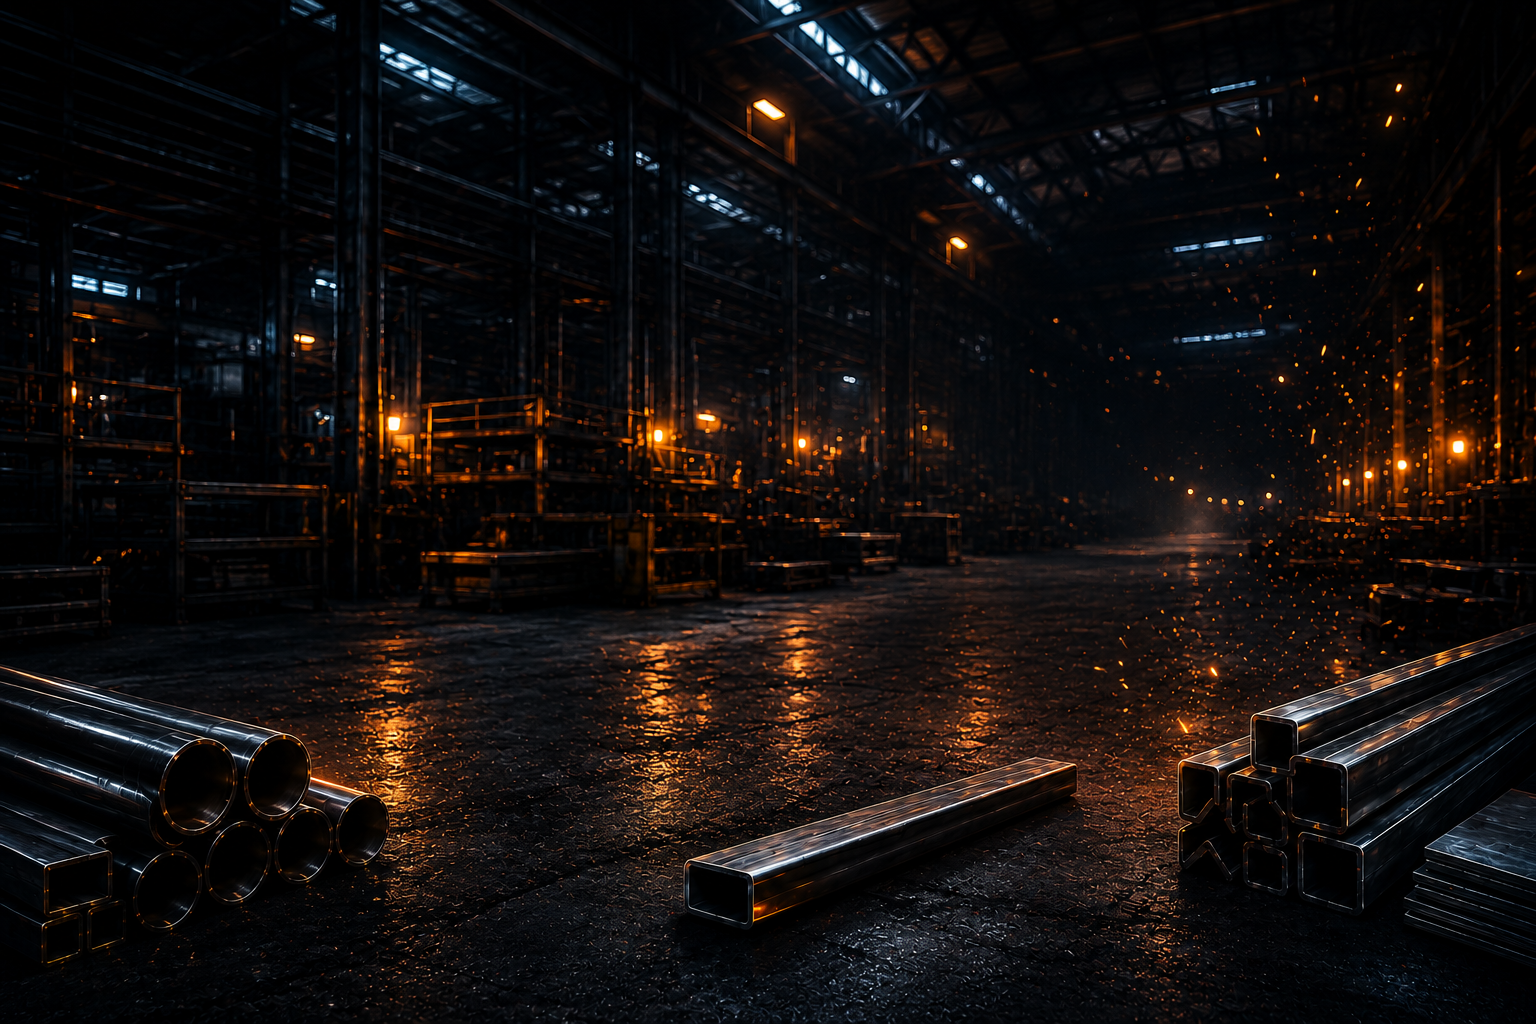
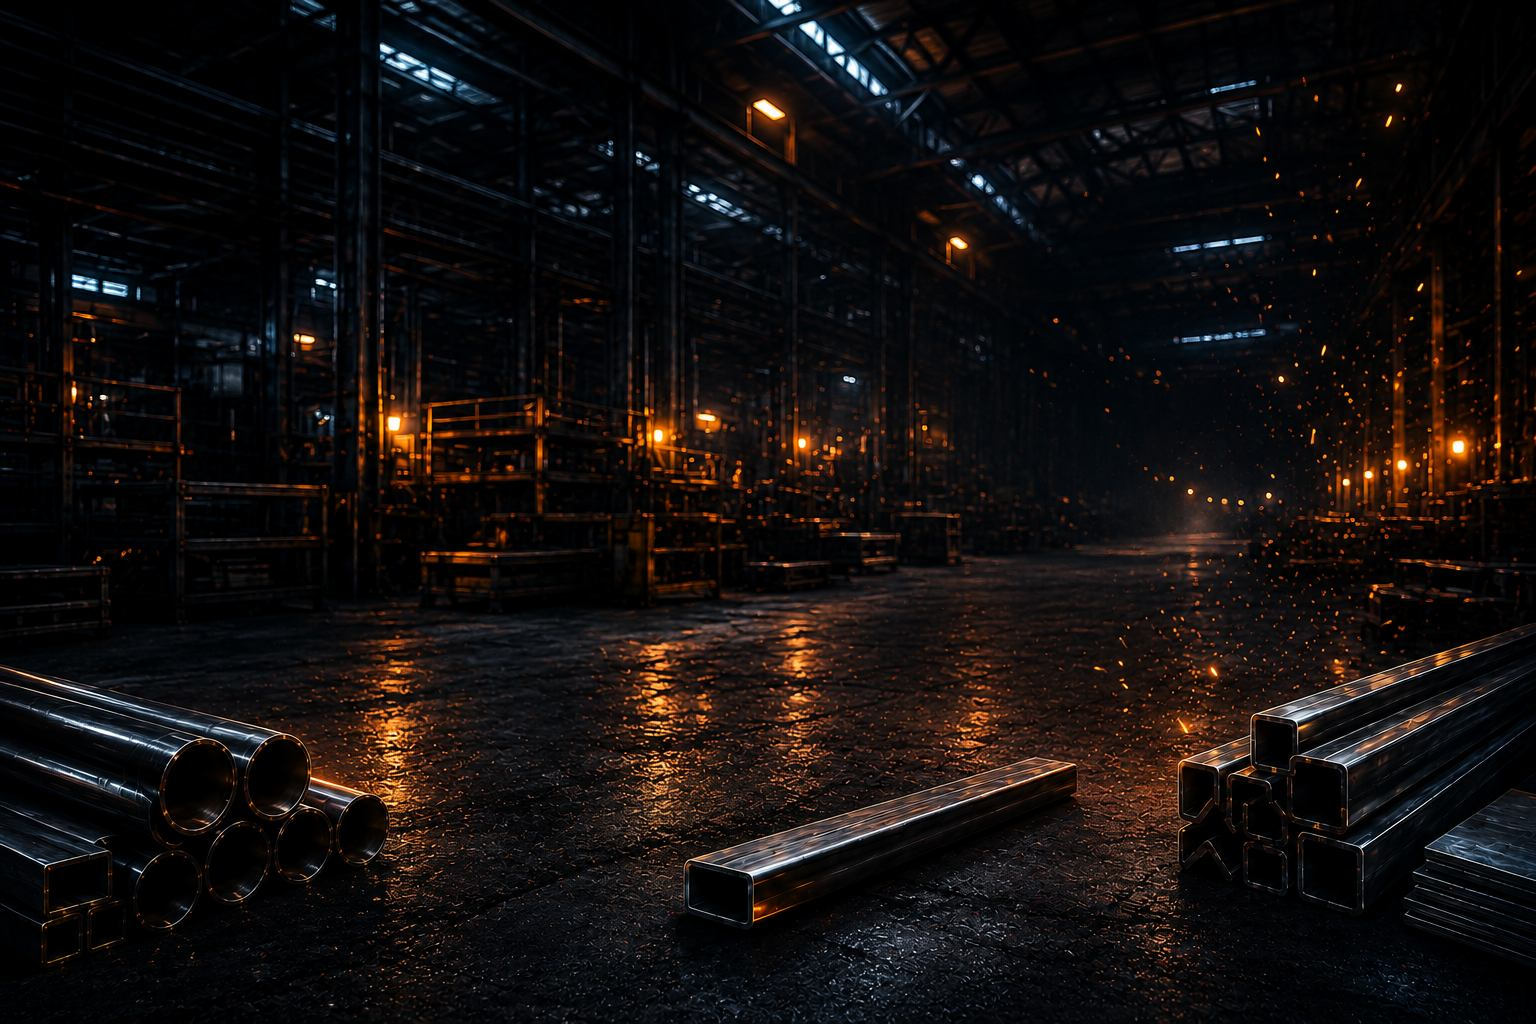
Comprime y optimiza las imagenes pesadas del sitio (49MB -> 14MB)
Redimensiona (max 1600px) y recomprime en JPEG calidad ~80 las 20
fotos que pesaban 2-3MB cada una. Sin cambio visible de calidad en
las miniaturas/coberturas donde se usan.

5 PNG sin transparencia (tornillos, portones, planos, barandales,
tiner) se convirtieron a JPEG -- el encoder PNG de Windows los hacia
mas pesados en vez de mas livianos al recomprimir. Se actualizan las
referencias .png -> .jpg en las ~19 paginas que las usaban.

bobby.png se mantiene como PNG (si usa transparencia) y se
recomprimio manteniendo el canal alfa intacto.

diff --git a/blog/blog.html b/blog/blog.html
@@ -129,7 +129,7 @@
     </a>
 
     <a class="post-card" href="como-cotizar-trabajo-herreria-sin-perder-plata.html">
-        <div class="post-card-image" style="background-image:url('../images/planos.png');" role="img" aria-label="Planos y cálculo de proyecto"></div>
+        <div class="post-card-image" style="background-image:url('../images/planos.jpg');" role="img" aria-label="Planos y cálculo de proyecto"></div>
         <div class="post-card-body">
             <span class="post-tag">Negocio</span>
             <h2>Cómo cotizar un trabajo de herrería sin perder plata</h2>
@@ -289,7 +289,7 @@
     </a>
 
     <a class="post-card" href="tornillos-pernos-estructuras-metalicas.html">
-        <div class="post-card-image" style="background-image:url('../images/tornillos.png');" role="img" aria-label="Tornillos y pernos para estructuras metálicas"></div>
+        <div class="post-card-image" style="background-image:url('../images/tornillos.jpg');" role="img" aria-label="Tornillos y pernos para estructuras metálicas"></div>
         <div class="post-card-body">
             <span class="post-tag">Consejos de construcción</span>
             <h2>Tornillos y pernos para estructuras metálicas</h2>
@@ -299,7 +299,7 @@
     </a>
 
     <a class="post-card" href="barandales-pasamanos-medidas.html">
-        <div class="post-card-image" style="background-image:url('../images/barandales.png');" role="img" aria-label="Barandales metálicos"></div>
+        <div class="post-card-image" style="background-image:url('../images/barandales.jpg');" role="img" aria-label="Barandales metálicos"></div>
         <div class="post-card-body">
             <span class="post-tag">Referencia técnica</span>
             <h2>Barandales y pasamanos de metal</h2>
@@ -329,7 +329,7 @@
     </a>
 
     <a class="post-card" href="como-calcular-varilla-losa.html">
-        <div class="post-card-image" style="background-image:url('../images/planos.png');" role="img" aria-label="Planos de construcción"></div>
+        <div class="post-card-image" style="background-image:url('../images/planos.jpg');" role="img" aria-label="Planos de construcción"></div>
         <div class="post-card-body">
             <span class="post-tag">Consejos de construcción</span>
             <h2>Cómo calcular cuánta varilla necesitás para una losa</h2>
@@ -409,7 +409,7 @@
     </a>
 
     <a class="post-card" href="factores-precio-porton-metal.html">
-        <div class="post-card-image" style="background-image:url('../images/portones.png');" role="img" aria-label="Portón metálico fabricado en Xela"></div>
+        <div class="post-card-image" style="background-image:url('../images/portones.jpg');" role="img" aria-label="Portón metálico fabricado en Xela"></div>
         <div class="post-card-body">
             <span class="post-tag">Proyectos</span>
             <h2>Qué factores cambian el precio de un portón de metal</h2>

diff --git a/productos.html b/productos.html
@@ -93,7 +93,7 @@
 
         <article class="product-card">
           <a href="https://wa.me/50248649231?text=Hola%2C%20quiero%20saber%20el%20precio%20del%20hierro%20plano" target="_blank" rel="noopener noreferrer" aria-label="Consultar precio de hierro plano por WhatsApp">
-            <img src="images/planos.png" alt="Hierro Plano">
+            <img src="images/planos.jpg" alt="Hierro Plano">
           </a>
           <div>
             <h2>HIERRO PLANO</h2>
@@ -113,7 +113,7 @@
 
         <article class="product-card">
           <a href="https://wa.me/50248649231?text=Hola%2C%20quiero%20saber%20el%20precio%20de%20la%20torniller%C3%ADa" target="_blank" rel="noopener noreferrer" aria-label="Consultar precio de tornillería por WhatsApp">
-            <img src="images/tornillos.png" alt="Tornillería">
+            <img src="images/tornillos.jpg" alt="Tornillería">
           </a>
           <div>
             <h2>TORNILLERÍA</h2>
@@ -193,7 +193,7 @@
 
         <article class="product-card">
           <a href="https://wa.me/50248649231?text=Hola%2C%20quiero%20saber%20el%20precio%20de%20los%20portones" target="_blank" rel="noopener noreferrer" aria-label="Consultar precio de portones por WhatsApp">
-            <img src="images/portones.png" alt="Portones">
+            <img src="images/portones.jpg" alt="Portones">
           </a>
           <div>
             <h2>PORTONES</h2>
@@ -203,7 +203,7 @@
 
         <article class="product-card">
           <a href="https://wa.me/50248649231?text=Hola%2C%20quiero%20saber%20el%20precio%20de%20los%20barandales" target="_blank" rel="noopener noreferrer" aria-label="Consultar precio de barandales por WhatsApp">
-            <img src="images/barandales.png" alt="Barandales">
+            <img src="images/barandales.jpg" alt="Barandales">
           </a>
           <div>
             <h2>BARANDALES</h2>

diff --git a/blog/tornillos-pernos-estructuras-metalicas.html b/blog/tornillos-pernos-estructuras-metalicas.html
@@ -11,7 +11,7 @@
     <meta property="og:title" content="Tornillos y pernos para estructuras metálicas: guía rápida">
     <meta property="og:description" content="Diferencia entre tornillo autoperforante y perno estructural.">
     <meta property="og:url" content="https://rocketclubos.github.io/Perfiles-y-Metales-Xela/blog/tornillos-pernos-estructuras-metalicas.html">
-    <meta property="og:image" content="https://rocketclubos.github.io/Perfiles-y-Metales-Xela/images/tornillos.png">
+    <meta property="og:image" content="https://rocketclubos.github.io/Perfiles-y-Metales-Xela/images/tornillos.jpg">
     <link rel="icon" type="image/png" href="../images/bobby.png">
     <link rel="stylesheet" href="../blog.css">
     <link rel="preconnect" href="https://fonts.googleapis.com">
@@ -74,7 +74,7 @@
     <a href="https://wa.me/50248649231" class="whatsapp-btn">WhatsApp</a>
 </nav>
 
-<div class="post-cover" style="background-image:url('../images/tornillos.png');" role="img" aria-label="Tornillos y pernos para estructuras metálicas"></div>
+<div class="post-cover" style="background-image:url('../images/tornillos.jpg');" role="img" aria-label="Tornillos y pernos para estructuras metálicas"></div>
 
 <header class="post-hero">
     <nav class="breadcrumb" aria-label="Breadcrumb">
@@ -135,7 +135,7 @@
             <span>Puertas metálicas: enrollable, corrediza o abatible</span>
         </a>
         <a class="related-card" href="barandales-pasamanos-medidas.html">
-            <div class="related-card-image" style="background-image:url('../images/barandales.png');"></div>
+            <div class="related-card-image" style="background-image:url('../images/barandales.jpg');"></div>
             <span>Barandales y pasamanos de metal: medidas y alturas</span>
         </a>
         <a class="related-card" href="errores-comunes-soldar-acero.html">

diff --git a/blog/barandales-pasamanos-medidas.html b/blog/barandales-pasamanos-medidas.html
@@ -11,7 +11,7 @@
     <meta property="og:title" content="Barandales y pasamanos de metal: medidas y alturas recomendadas">
     <meta property="og:description" content="Alturas y separaciones de referencia para barandales y pasamanos metálicos.">
     <meta property="og:url" content="https://rocketclubos.github.io/Perfiles-y-Metales-Xela/blog/barandales-pasamanos-medidas.html">
-    <meta property="og:image" content="https://rocketclubos.github.io/Perfiles-y-Metales-Xela/images/barandales.png">
+    <meta property="og:image" content="https://rocketclubos.github.io/Perfiles-y-Metales-Xela/images/barandales.jpg">
     <link rel="icon" type="image/png" href="../images/bobby.png">
     <link rel="stylesheet" href="../blog.css">
     <link rel="preconnect" href="https://fonts.googleapis.com">
@@ -74,7 +74,7 @@
     <a href="https://wa.me/50248649231" class="whatsapp-btn">WhatsApp</a>
 </nav>
 
-<div class="post-cover" style="background-image:url('../images/barandales.png');" role="img" aria-label="Barandales metálicos"></div>
+<div class="post-cover" style="background-image:url('../images/barandales.jpg');" role="img" aria-label="Barandales metálicos"></div>
 
 <header class="post-hero">
     <nav class="breadcrumb" aria-label="Breadcrumb">
@@ -133,7 +133,7 @@
     <h2>También te puede interesar</h2>
     <div class="related-posts-grid">
         <a class="related-card" href="tornillos-pernos-estructuras-metalicas.html">
-            <div class="related-card-image" style="background-image:url('../images/tornillos.png');"></div>
+            <div class="related-card-image" style="background-image:url('../images/tornillos.jpg');"></div>
             <span>Tornillos y pernos para estructuras metálicas</span>
         </a>
         <a class="related-card" href="malla-ciclon-vs-electrosoldada.html">

diff --git a/blog/como-cotizar-trabajo-herreria-sin-perder-plata.html b/blog/como-cotizar-trabajo-herreria-sin-perder-plata.html
@@ -11,7 +11,7 @@
     <meta property="og:title" content="Cómo cotizar un trabajo de herrería sin perder plata">
     <meta property="og:description" content="Cómo calcular un precio que realmente te deje ganancia en un trabajo de herrería.">
     <meta property="og:url" content="https://rocketclubos.github.io/Perfiles-y-Metales-Xela/blog/como-cotizar-trabajo-herreria-sin-perder-plata.html">
-    <meta property="og:image" content="https://rocketclubos.github.io/Perfiles-y-Metales-Xela/images/planos.png">
+    <meta property="og:image" content="https://rocketclubos.github.io/Perfiles-y-Metales-Xela/images/planos.jpg">
     <link rel="icon" type="image/png" href="../images/bobby.png">
     <link rel="stylesheet" href="../blog.css">
     <link rel="preconnect" href="https://fonts.googleapis.com">
@@ -74,7 +74,7 @@
     <a href="https://wa.me/50248649231" class="whatsapp-btn">WhatsApp</a>
 </nav>
 
-<div class="post-cover" style="background-image:url('../images/planos.png');" role="img" aria-label="Planos y cálculo de proyecto"></div>
+<div class="post-cover" style="background-image:url('../images/planos.jpg');" role="img" aria-label="Planos y cálculo de proyecto"></div>
 
 <header class="post-hero">
     <nav class="breadcrumb" aria-label="Breadcrumb">

diff --git a/blog/factores-precio-porton-metal.html b/blog/factores-precio-porton-metal.html
@@ -11,7 +11,7 @@
     <meta property="og:title" content="Qué factores cambian el precio de un portón de metal">
     <meta property="og:description" content="Las variables que realmente definen el costo de un portón metálico.">
     <meta property="og:url" content="https://rocketclubos.github.io/Perfiles-y-Metales-Xela/blog/factores-precio-porton-metal.html">
-    <meta property="og:image" content="https://rocketclubos.github.io/Perfiles-y-Metales-Xela/images/portones.png">
+    <meta property="og:image" content="https://rocketclubos.github.io/Perfiles-y-Metales-Xela/images/portones.jpg">
     <link rel="icon" type="image/png" href="../images/bobby.png">
     <link rel="stylesheet" href="../blog.css">
     <link rel="preconnect" href="https://fonts.googleapis.com">
@@ -74,7 +74,7 @@
     <a href="https://wa.me/50248649231" class="whatsapp-btn">WhatsApp</a>
 </nav>
 
-<div class="post-cover" style="background-image:url('../images/portones.png');" role="img" aria-label="Portón metálico fabricado en Xela"></div>
+<div class="post-cover" style="background-image:url('../images/portones.jpg');" role="img" aria-label="Portón metálico fabricado en Xela"></div>
 
 <header class="post-hero">
     <nav class="breadcrumb" aria-label="Breadcrumb">

diff --git a/blog/como-calcular-varilla-losa.html b/blog/como-calcular-varilla-losa.html
@@ -11,7 +11,7 @@
     <meta property="og:title" content="Cómo calcular cuánta varilla necesitás para una losa">
     <meta property="og:description" content="Método básico para estimar varilla de losa antes de comprar, con ejemplo paso a paso.">
     <meta property="og:url" content="https://rocketclubos.github.io/Perfiles-y-Metales-Xela/blog/como-calcular-varilla-losa.html">
-    <meta property="og:image" content="https://rocketclubos.github.io/Perfiles-y-Metales-Xela/images/planos.png">
+    <meta property="og:image" content="https://rocketclubos.github.io/Perfiles-y-Metales-Xela/images/planos.jpg">
     <link rel="icon" type="image/png" href="../images/bobby.png">
     <link rel="stylesheet" href="../blog.css">
     <link rel="preconnect" href="https://fonts.googleapis.com">
@@ -74,7 +74,7 @@
     <a href="https://wa.me/50248649231" class="whatsapp-btn">WhatsApp</a>
 </nav>
 
-<div class="post-cover" style="background-image:url('../images/planos.png');" role="img" aria-label="Planos de construcción"></div>
+<div class="post-cover" style="background-image:url('../images/planos.jpg');" role="img" aria-label="Planos de construcción"></div>
 
 <header class="post-hero">
     <nav class="breadcrumb" aria-label="Breadcrumb">

diff --git a/blog/puertas-metalicas-enrollable-corrediza-abatible.html b/blog/puertas-metalicas-enrollable-corrediza-abatible.html
@@ -137,7 +137,7 @@
     <h2>También te puede interesar</h2>
     <div class="related-posts-grid">
         <a class="related-card" href="factores-precio-porton-metal.html">
-            <div class="related-card-image" style="background-image:url('../images/portones.png');"></div>
+            <div class="related-card-image" style="background-image:url('../images/portones.jpg');"></div>
             <span>Qué factores cambian el precio de un portón de metal</span>
         </a>
         <a class="related-card" href="cerramientos-metalicos-seguridad-diseno.html">
@@ -145,7 +145,7 @@
             <span>Cerramientos metálicos: seguridad sin sacrificar diseño</span>
         </a>
         <a class="related-card" href="tornillos-pernos-estructuras-metalicas.html">
-            <div class="related-card-image" style="background-image:url('../images/tornillos.png');"></div>
+            <div class="related-card-image" style="background-image:url('../images/tornillos.jpg');"></div>
             <span>Tornillos y pernos para estructuras metálicas</span>
         </a>
     </div>

diff --git a/blog/gana-mas-como-herrero.html b/blog/gana-mas-como-herrero.html
@@ -139,7 +139,7 @@
             <span>Club Xela: cómo acumular recompensas comprando lo que ya ibas a comprar</span>
         </a>
         <a class="related-card" href="como-cotizar-trabajo-herreria-sin-perder-plata.html">
-            <div class="related-card-image" style="background-image:url('../images/planos.png');"></div>
+            <div class="related-card-image" style="background-image:url('../images/planos.jpg');"></div>
             <span>Cómo cotizar un trabajo de herrería sin perder plata</span>
         </a>
         <a class="related-card" href="que-preguntar-al-ferretero.html">

diff --git a/blog/como-calcular-margen-ganancia-real.html b/blog/como-calcular-margen-ganancia-real.html
@@ -137,7 +137,7 @@
     <h2>También te puede interesar</h2>
     <div class="related-posts-grid">
         <a class="related-card" href="como-cotizar-trabajo-herreria-sin-perder-plata.html">
-            <div class="related-card-image" style="background-image:url('../images/planos.png');"></div>
+            <div class="related-card-image" style="background-image:url('../images/planos.jpg');"></div>
             <span>Cómo cotizar un trabajo de herrería sin perder plata</span>
         </a>
         <a class="related-card" href="errores-que-hacen-perder-dinero-herrero.html">

diff --git a/blog/errores-que-hacen-perder-dinero-herrero.html b/blog/errores-que-hacen-perder-dinero-herrero.html
@@ -131,7 +131,7 @@
     <h2>También te puede interesar</h2>
     <div class="related-posts-grid">
         <a class="related-card" href="como-cotizar-trabajo-herreria-sin-perder-plata.html">
-            <div class="related-card-image" style="background-image:url('../images/planos.png');"></div>
+            <div class="related-card-image" style="background-image:url('../images/planos.jpg');"></div>
             <span>Cómo cotizar un trabajo de herrería sin perder plata</span>
         </a>
         <a class="related-card" href="desperdicio-material-se-come-ganancia.html">

diff --git a/blog/cuanto-cuesta-cotizar-mal-un-trabajo.html b/blog/cuanto-cuesta-cotizar-mal-un-trabajo.html
@@ -132,7 +132,7 @@
     <h2>También te puede interesar</h2>
     <div class="related-posts-grid">
         <a class="related-card" href="como-cotizar-trabajo-herreria-sin-perder-plata.html">
-            <div class="related-card-image" style="background-image:url('../images/planos.png');"></div>
+            <div class="related-card-image" style="background-image:url('../images/planos.jpg');"></div>
             <span>Cómo cotizar un trabajo de herrería sin perder plata</span>
         </a>
         <a class="related-card" href="como-calcular-margen-ganancia-real.html">
